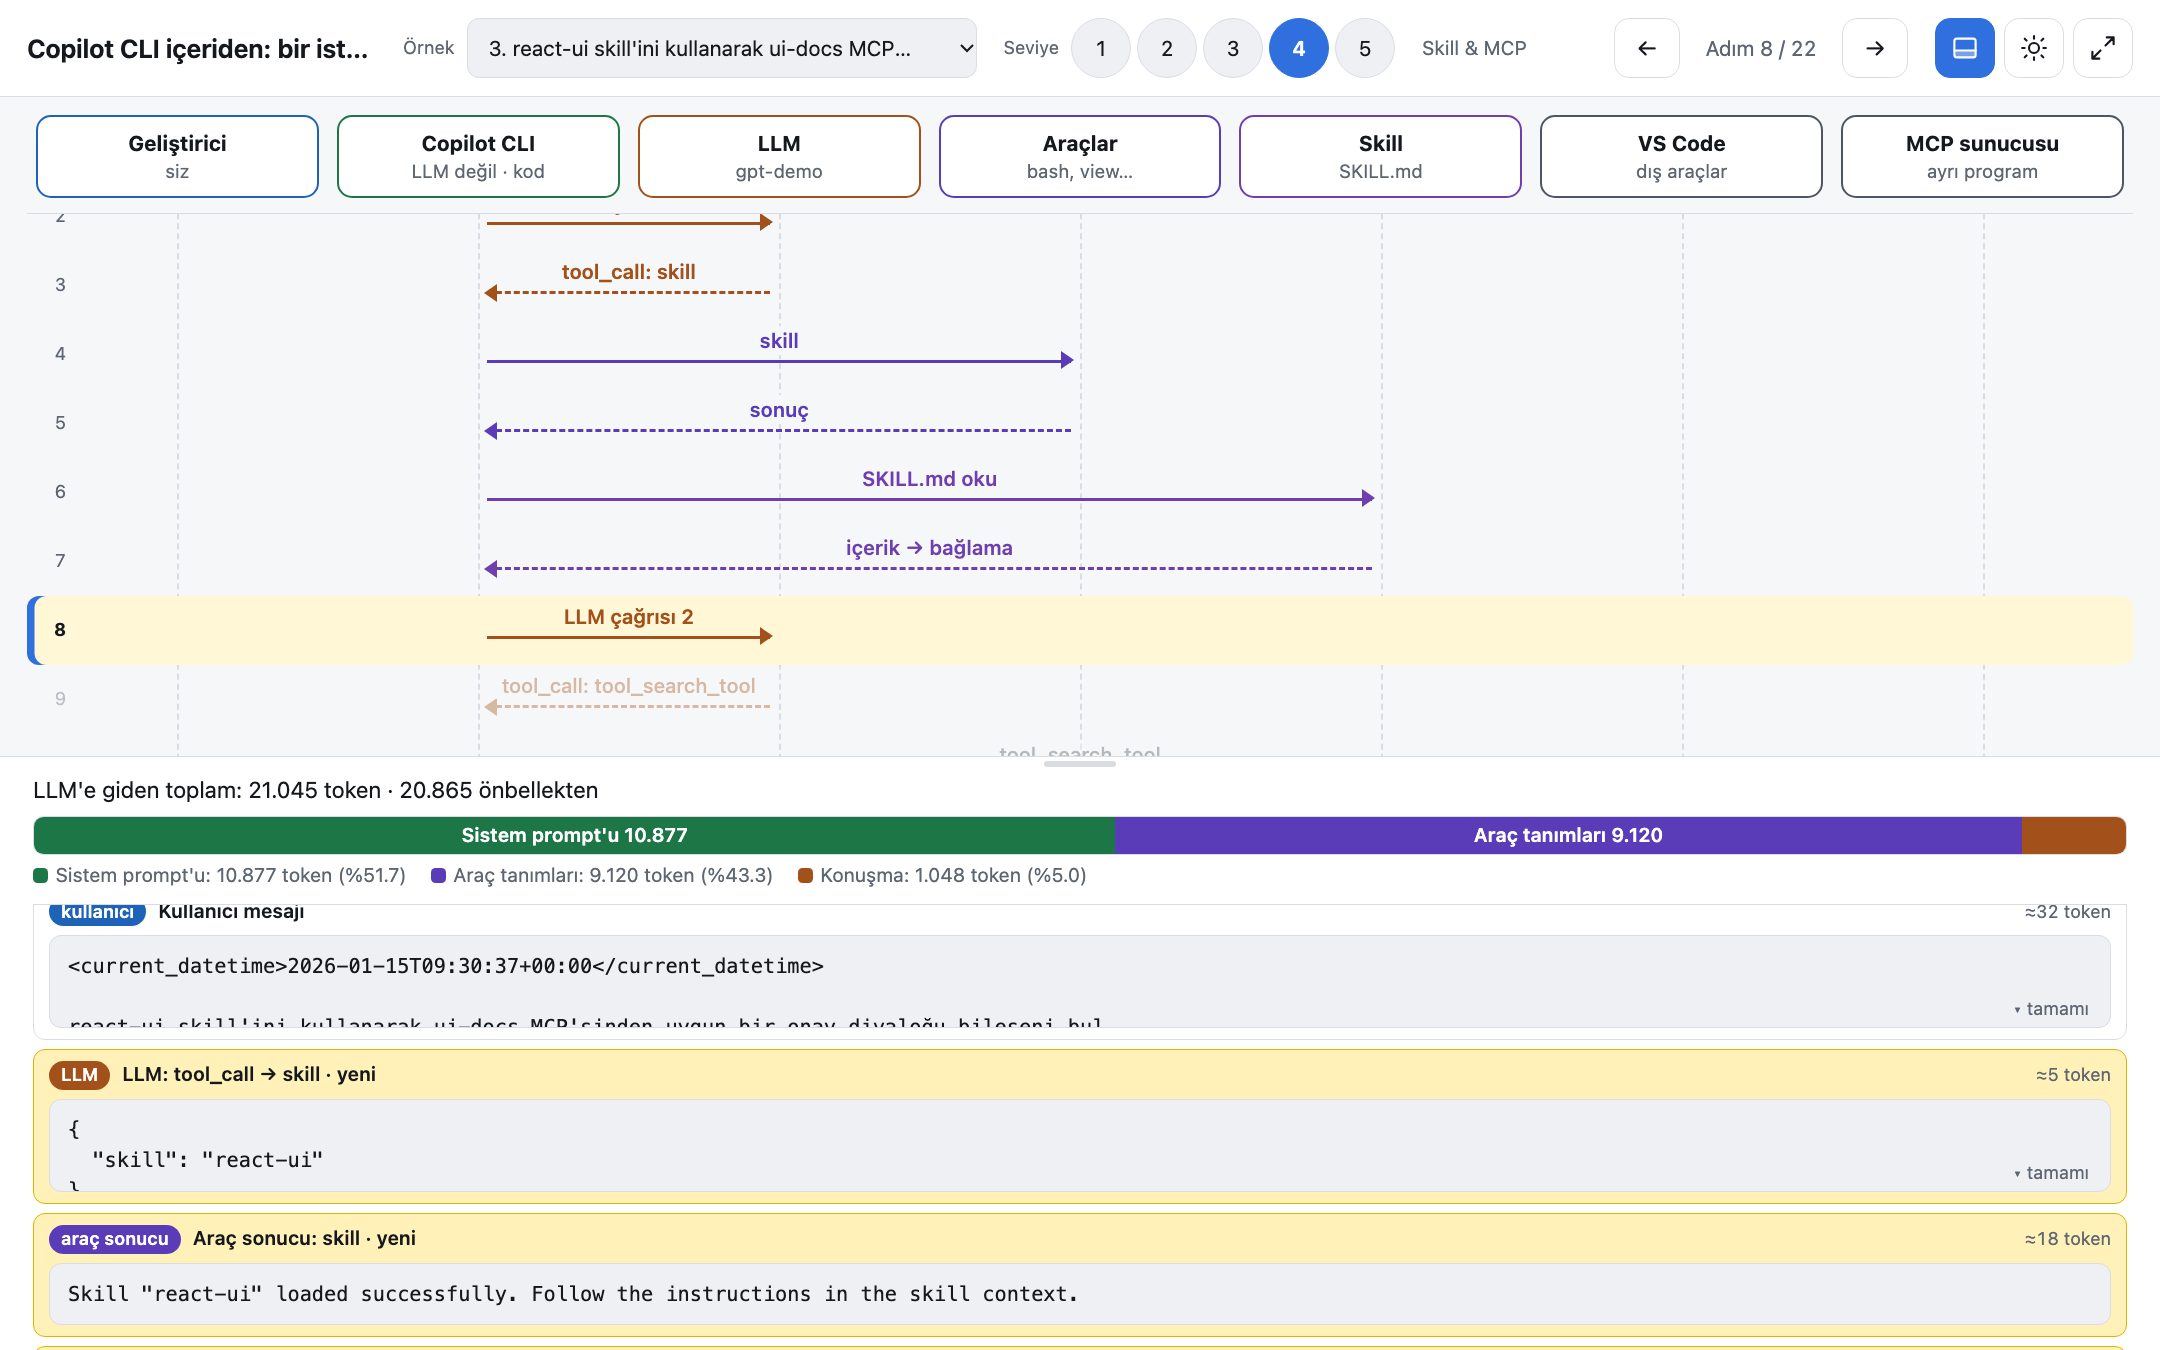
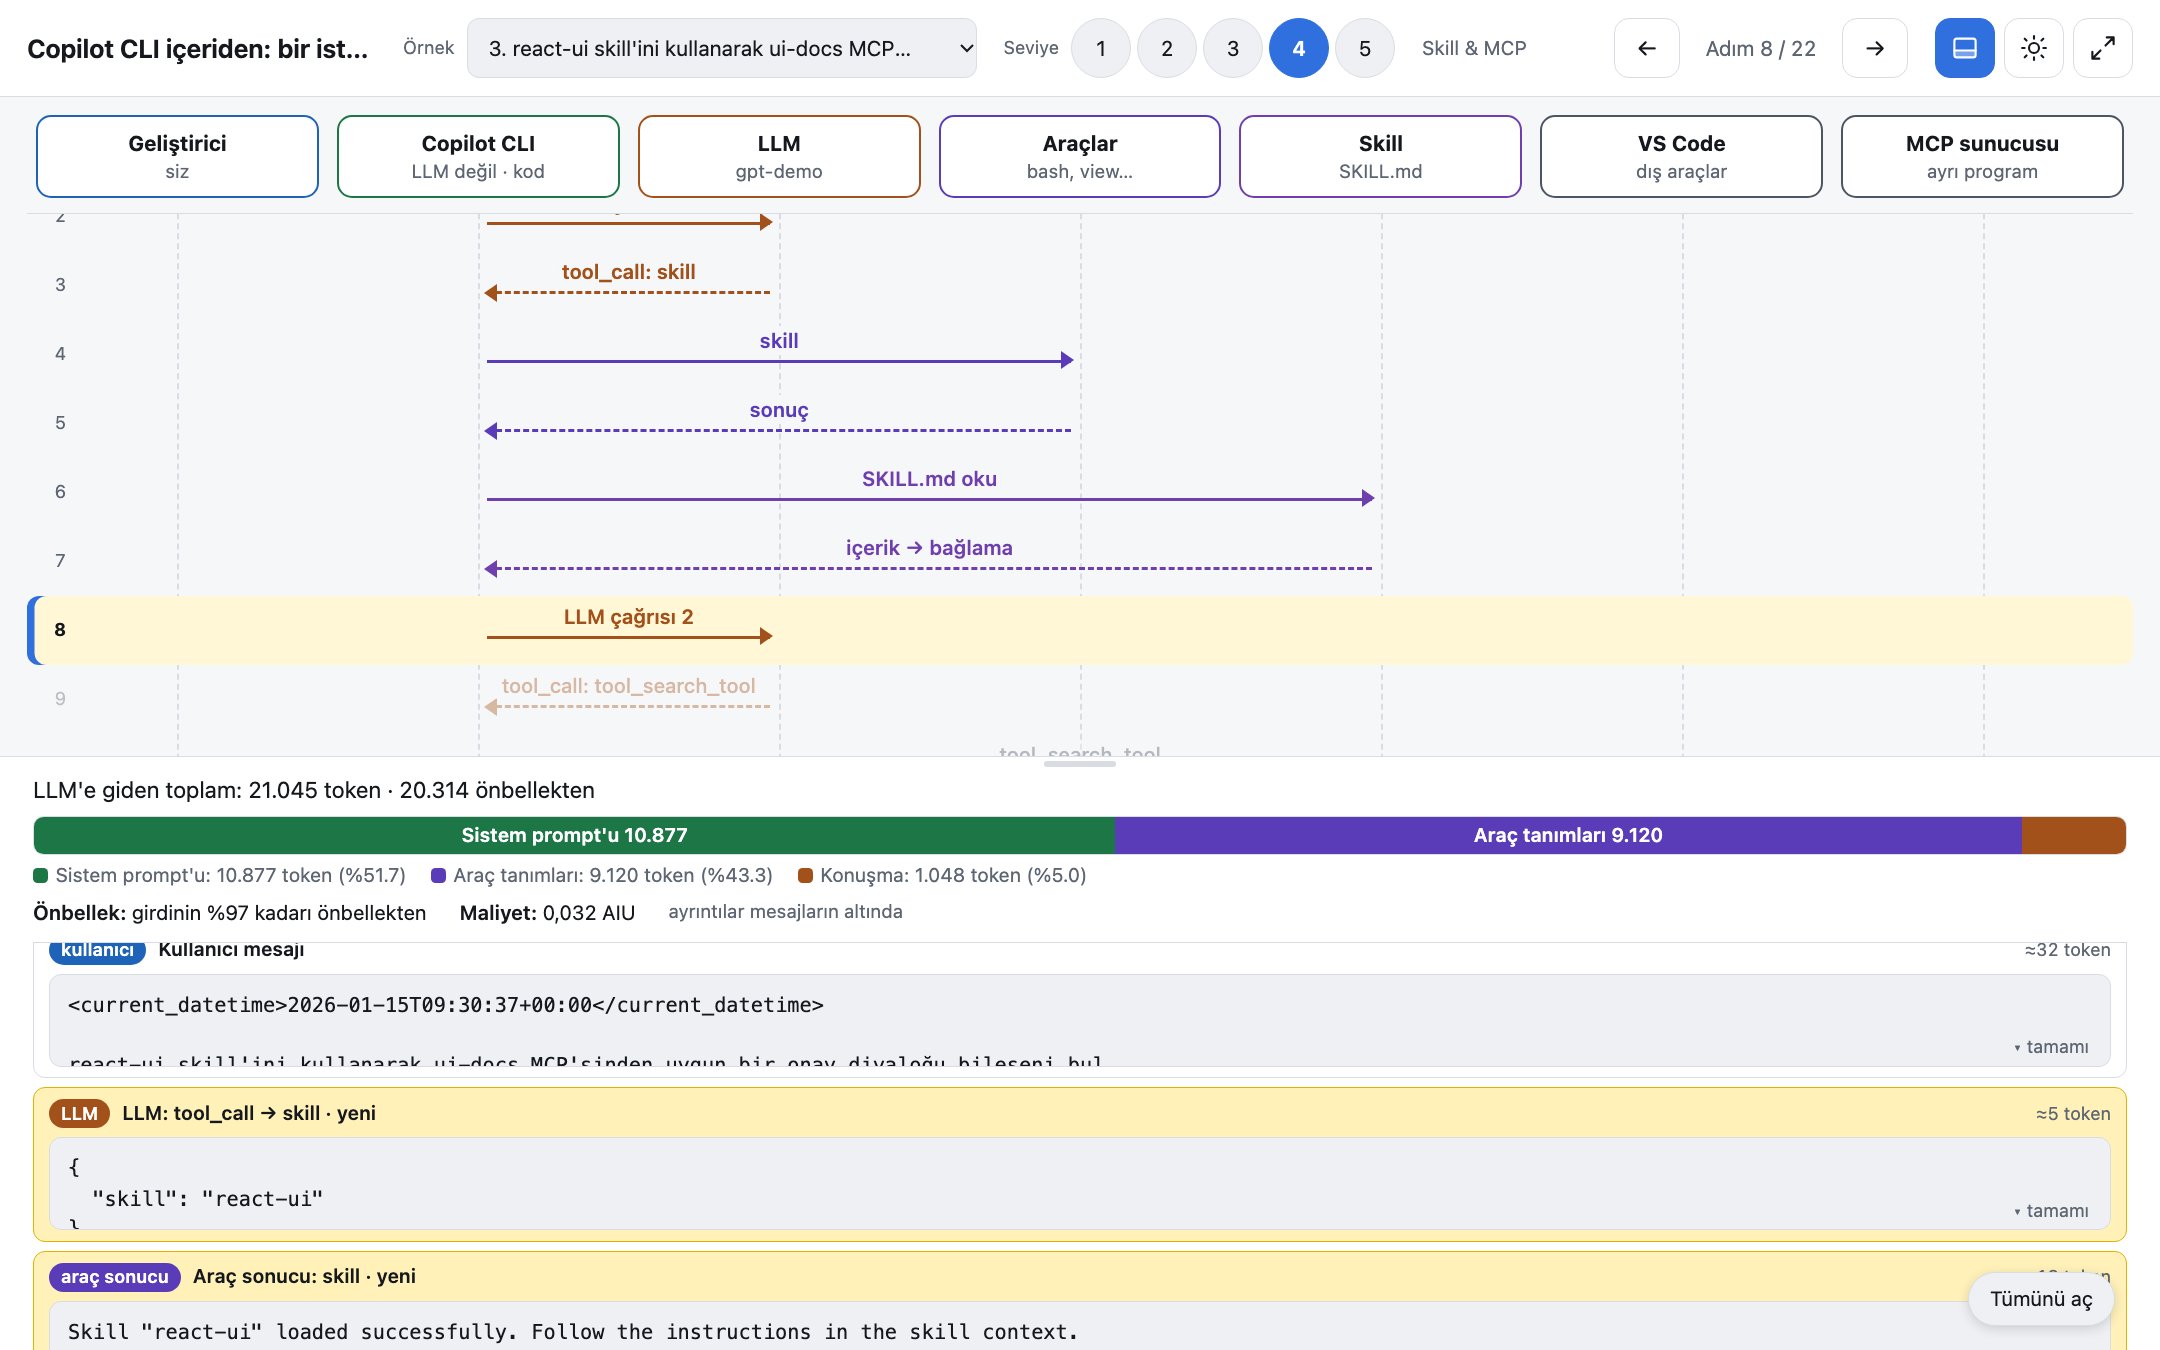
Önbellek ve maliyet özeti yapışık başlıkta; demo log ve görseller güncellendi
- LLM çağrısında önbellek oranı ve maliyet tek satır olarak token
  çubuğunun altında, panel kaydırılsa da görünür kalır. Ayrıntılı
  tablolar mesaj listesinin altına taşındı (otomatik kaydırma onları
  gizliyordu).
- Demo log önbellek yazma, copilotUsage maliyeti ve usage_checkpoint
  alanlarını içeriyor; README görselleri yeni arayüzle yeniden alındı.

Changed region(s): [[0.0, 0.6533, 0.9926, 1.0], [0.1861, 0.56, 0.2792, 0.5911], [0.9306, 0.6533, 0.9616, 0.7156]]

diff --git a/copilot_player_template.html b/copilot_player_template.html
@@ -124,6 +124,10 @@ pre{margin:0;white-space:pre-wrap;word-break:break-word;background:var(--soft);b
 .ktable td:nth-child(2),.ktable td:nth-child(3),.ktable td:nth-child(4){text-align:right}
 .ktable td:last-child{width:160px}
 .kbar{display:block;height:8px;border-radius:4px;background:var(--c-cloud);min-width:2px}
+.ozetsatir{display:flex;flex-wrap:wrap;gap:4px 22px;margin-top:6px;font-size:13.5px}
+.ozetsatir b{font-weight:600}
+.ozetsatir .alt{color:var(--muted);font-size:12.5px}
+.block.cache,.msgs+.block{margin-top:18px}
 .note{margin:6px 0 0;font-size:13.5px;color:var(--muted);max-width:980px}
 .legend i{display:inline-block;width:10px;height:10px;border-radius:3px;margin-right:5px;vertical-align:-1px}
 .msgs{display:grid;gap:6px;margin-top:8px}
@@ -331,9 +335,8 @@ function contextBlock(b){
     wrap.append(el("div",{class:"ctxhead"},
       el("div",{class:"t"},`LLM'e giden toplam: ${fmt(b.toplam)} token · ${fmt(b.onbellek)} önbellekten`),
       el("div",{class:"bar",role:"img","aria-label":parts.map(([n,v])=>`${n} ${fmt(v)} token`).join(", ")},...parts.map(([n,v,c])=>el("div",{style:`flex:${Math.max(v,1)};background:${c}`,title:`${n}: ${fmt(v)}`},v/b.toplam>.12?`${n} ${fmt(v)}`:""))),
-      el("div",{class:"legend"},...parts.map(([n,v,c])=>el("span",{},el("i",{style:`background:${c}`}),`${n}: ${fmt(v)} token (%${(100*v/b.toplam).toFixed(1)})`)))));
-    if(b.yazilan!=null) wrap.append(cacheBlock(b));
-    if(b.kredi) wrap.append(krediBlock(b.kredi));
+      el("div",{class:"legend"},...parts.map(([n,v,c])=>el("span",{},el("i",{style:`background:${c}`}),`${n}: ${fmt(v)} token (%${(100*v/b.toplam).toFixed(1)})`))),
+      ozetSatir(b)));
     const det=el("details",{},el("summary",{},`Sistem prompt'unun içi (her çağrıda aynı, ≈${fmt(b.sistem)} token) ve ${b.arac_sayisi} araç tanımı (${fmt(b.araclar)} token)`),
       el("div",{class:"sections"},...b.sistem_bolumleri.slice(0,14).map(x=>el("span",{},el("em",{},x.ad),`≈${fmt(x.token)}`))));
     wrap.append(det);
@@ -354,7 +357,20 @@ function contextBlock(b){
       el("div",{class:"h"},el("span",{class:"role",style:`--c:var(--c-${rc})`},rn),el("b",{},it.baslik+(it.yeni?"  · yeni":"")),st.lvl>=3?el("span",{class:"tk"},`≈${fmt(it.token)} token`):null),pre));
   }
   wrap.append(msgs);
+  // Ayrıntılı önbellek ve maliyet tabloları mesajların altında (özetleri yapışık başlıkta)
+  if(st.lvl>=3 && b.yazilan!=null) wrap.append(cacheBlock(b));
+  if(st.lvl>=3 && b.kredi) wrap.append(krediBlock(b.kredi));
   return wrap;
+}
+// Yapışık başlıkta tek satır: önbellek oranı ve bu çağrının maliyeti (hep görünür)
+function ozetSatir(b){
+  const parcalar=[];
+  if(b.yazilan!=null && b.toplam) parcalar.push(el("span",{},el("b",{},"Önbellek: "),
+    b.onbellek ? `girdinin %${Math.round(100*b.onbellek/b.toplam)} kadarı önbellekten` : "ilk çağrı, tamamı önbelleğe yazıldı"));
+  if(b.kredi) parcalar.push(el("span",{},el("b",{},"Maliyet: "),`${aiu(b.kredi.toplam)} AIU`));
+  if(!parcalar.length) return null;
+  parcalar.push(el("span",{class:"alt"},"ayrıntılar mesajların altında"));
+  return el("div",{class:"ozetsatir"},...parcalar);
 }
 function renderBlock(b){ return b.tur==="baglam" ? contextBlock(b) : b.tur==="ozet" ? ozetBlock(b) : textBlock(b); }
 // "Tümünü aç": tercih adımlar arasında korunur; her yeni adımda kutular buna göre açılır

diff --git a/examples/make_demo_log.py b/examples/make_demo_log.py
@@ -20,6 +20,11 @@ TOOL_TOKENS, TOOL_COUNT = 9120, 104
 t = datetime(2026, 1, 15, 9, 30, 0, tzinfo=timezone.utc)
 events = []
 conv_chars = 0
+prev_tin = 0          # önbellekte duran önceki girdi (prompt cache)
+total_nano = 0        # oturum boyunca harcanan nanoAIU
+premium = 0           # prompt başına sayılan premium istek
+# Demo birim fiyatları (nanoAIU / token); oranlar gerçek loglardaki yapıyı taklit eder
+PRICE = {"input": 10_000, "cache_read": 1_000, "cache_write": 12_500, "output": 50_000}
 
 
 def emit(typ, data, dt_ms=5):
@@ -97,13 +102,22 @@ def hook(htype, inp, output=None, dur=3):
 
 
 def llm_call(turn, content="", tool_requests=(), reasoning="", out_tokens=60, think_ms=2800, cache=True):
-    global conv_chars
+    global conv_chars, prev_tin, total_nano
     emit("assistant.turn_start", {"turnId": str(turn)}, 3)
     tin = SYS_TOKENS + TOOL_TOKENS + round(conv_chars / CHARS_PER_TOKEN)
+    read = min(prev_tin, tin - 3) if cache else 0   # önceki çağrının girdisi önbellekte
+    write = tin - read - 3                          # yeni eklenen kısım önbelleğe yazılır
+    prev_tin = tin
+    counts = {"input": 3, "cache_read": read, "cache_write": write, "output": out_tokens}
+    nano = sum(counts[k] * PRICE[k] for k in counts)
+    total_nano += nano
     emit("session.usage_record", {"usage": {
         "model": MODEL, "inputTokens": tin, "outputTokens": out_tokens,
-        "cacheReadTokens": (tin - 180) if cache else 0, "reasoningTokens": 40,
+        "cacheReadTokens": read, "cacheWriteTokens": write, "cacheTtlSeconds": 1800, "reasoningTokens": 40,
         "toolTokenCount": TOOL_TOKENS, "availableToolCount": TOOL_COUNT,
+        "copilotUsage": {"totalNanoAiu": nano, "tokenDetails": [
+            {"tokenType": k, "tokenCount": v, "batchSize": 1_000_000, "costPerBatch": PRICE[k] * 1_000_000, "model": MODEL}
+            for k, v in counts.items()]},
         "finishReason": "tool_calls" if tool_requests else "stop"}}, think_ms)
     reqs = []
     for name, args in tool_requests:
@@ -150,7 +164,11 @@ def user(text, extra=""):
 
 
 def stop():
+    global premium
     hook("agentStop", {"stopReason": "end_turn"})
+    premium += 1  # premium istek prompt başına sayılır, LLM çağrısı başına değil
+    emit("session.usage_checkpoint", {"totalNanoAiu": total_nano, "totalPremiumRequests": premium,
+                                      "modelCacheState": [{"modelId": MODEL, "cacheTtlSeconds": 1800}]})
 
 
 # ── Oturum ────────────────────────────────────────────────────────────────
